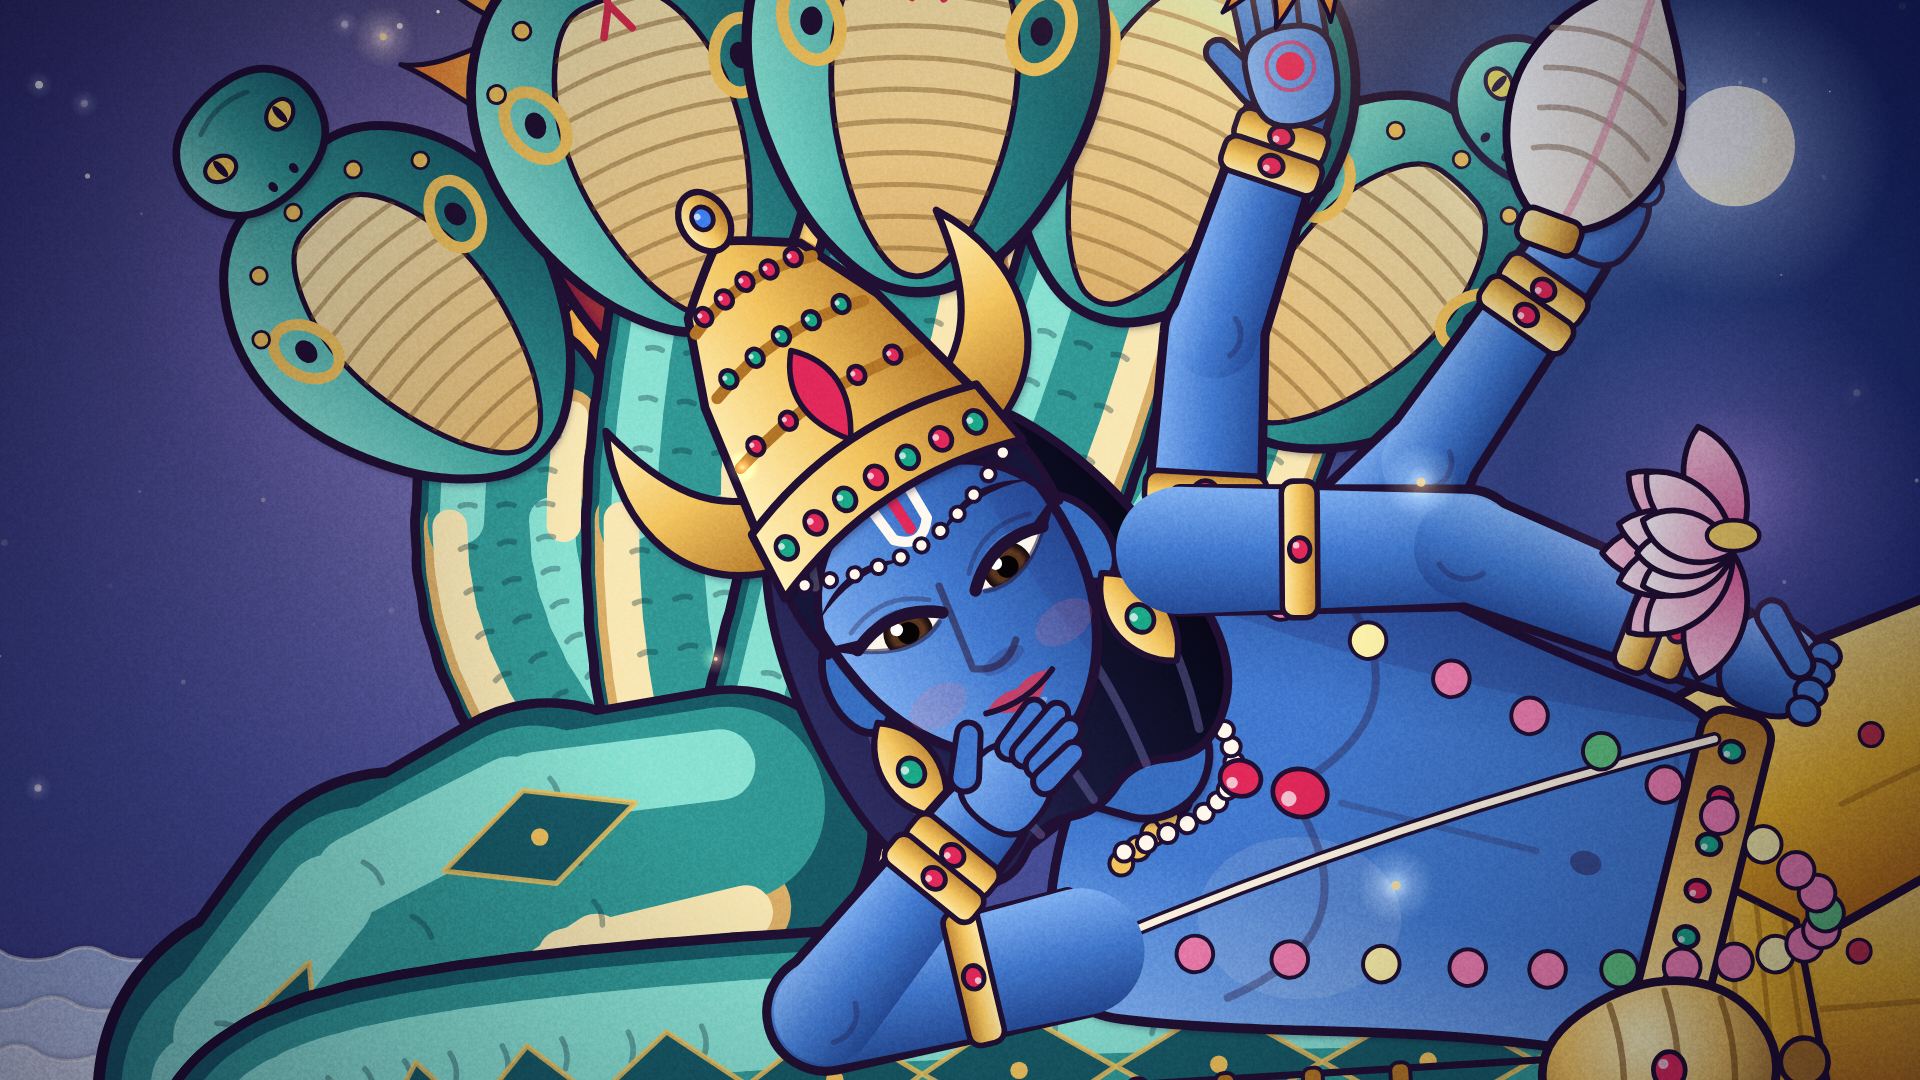
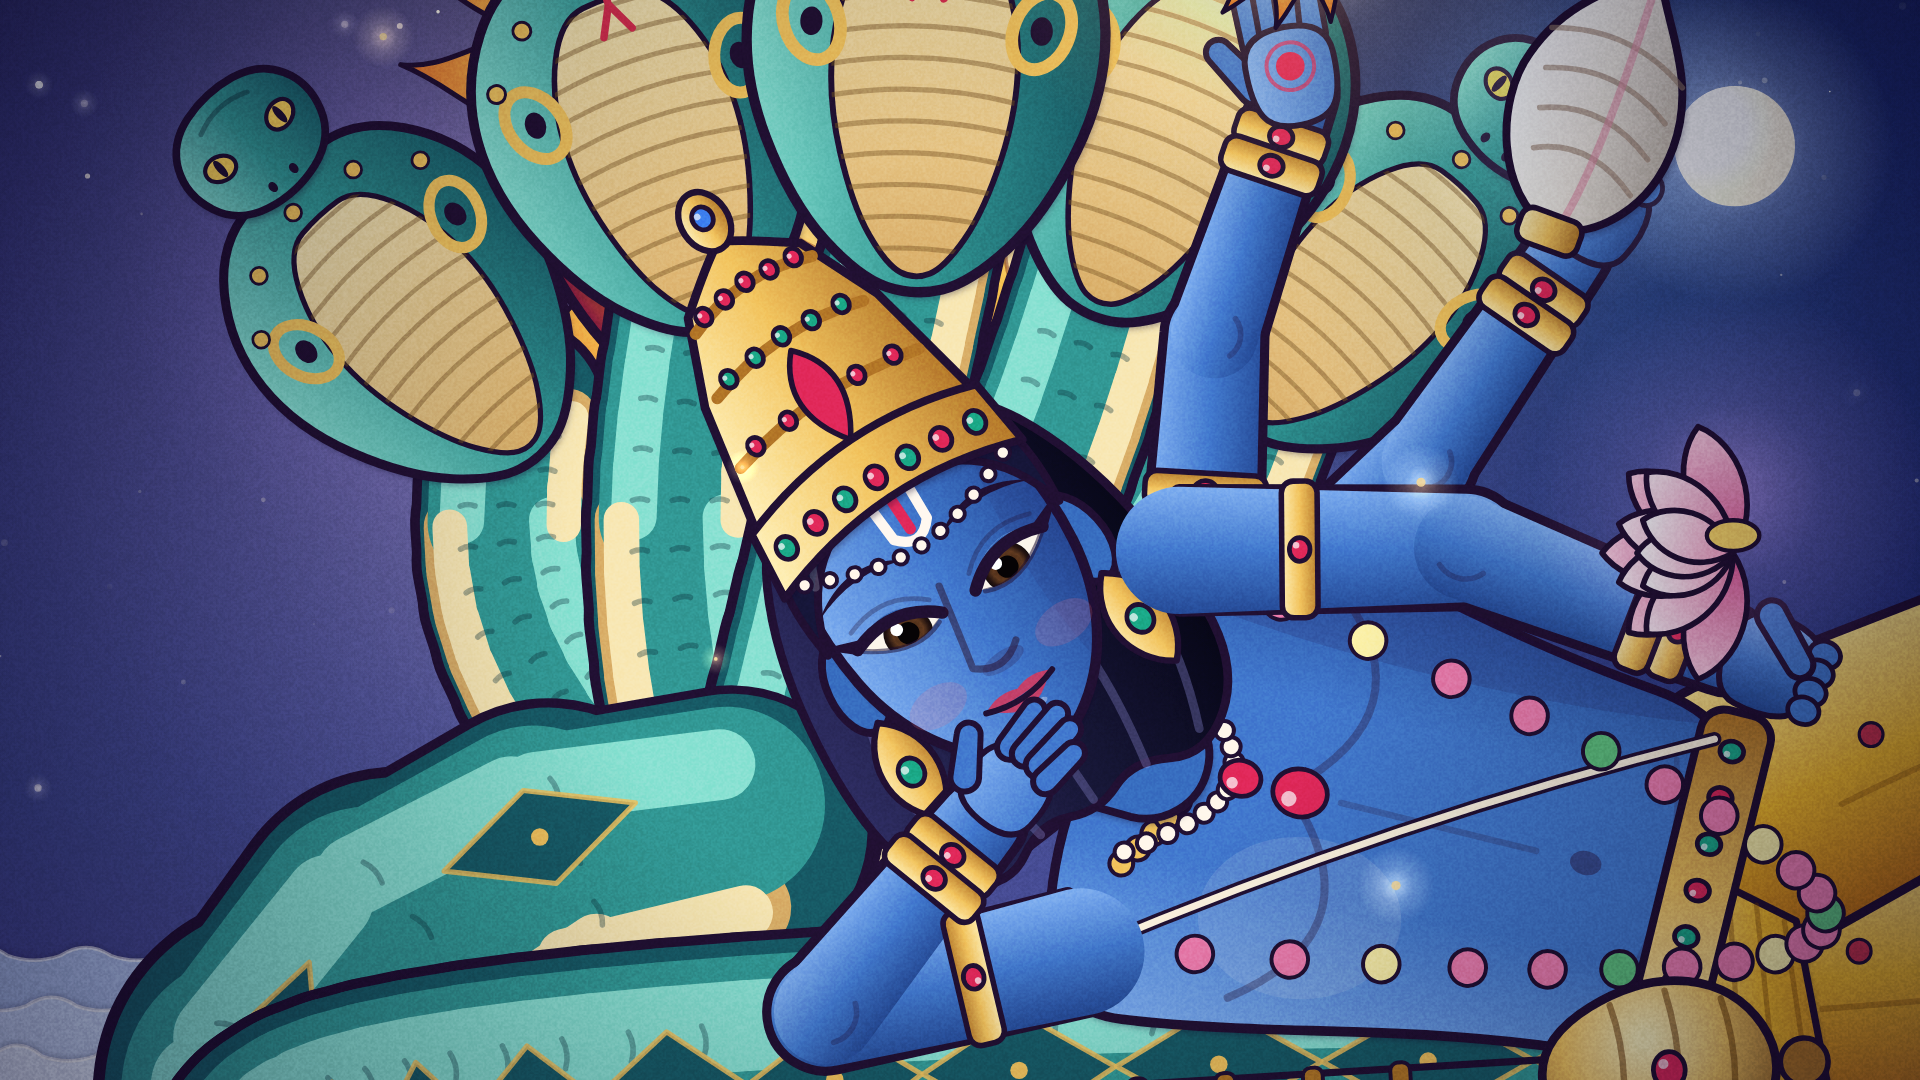
Remove the side horns from Vishnu's kirita (engine kit + showcase), re-render Vishnu/trio frames
Claude-Session: https://claude.ai/code/session_01Ec4SCjc7mpKu4xcSrfyjyA

Changed region(s): [[0.4688, 0.1833, 0.5625, 0.3972], [0.3125, 0.3972, 0.4062, 0.55]]

diff --git a/engine/paper_kit.js b/engine/paper_kit.js
@@ -97,7 +97,7 @@ function hairBack(c,col,t,len){const sw=Math.sin(t*1.2)*3;
   for(let i=-2;i<=2;i++)stroke(c,cc=>{cc.moveTo(i*14,0);cc.bezierCurveTo(i*22,len*.3,i*20+sw,len*.6,i*16+sw,len*.9)},'rgba(160,150,230,.28)',2.2)}
 
 function kirita(c,h){h=h||100;
-  [-1,1].forEach(sd=>cut(c,cc=>{cc.moveTo(sd*30,-30);cc.bezierCurveTo(sd*56,-36,sd*62,-62,sd*50,-84);cc.bezierCurveTo(sd*46,-62,sd*38,-52,sd*26,-48);cc.closePath()},lg(c,0,-84,0,-30,[PAL.goldL,PAL.gold,PAL.goldD]),{lw:1.8}));
+  // (no side horns: Vishnu's kirita is a plain tiered crown)
   const top=-42-h;cut(c,cc=>{cc.moveTo(-33,-40);cc.lineTo(-26,-42-h*.5);cc.lineTo(-17,-42-h*.82);cc.quadraticCurveTo(-6,-42-h*.95,0,top);cc.quadraticCurveTo(6,-42-h*.95,17,-42-h*.82);cc.lineTo(26,-42-h*.5);cc.lineTo(33,-40);cc.closePath()},goldG(c,-32,32),{lw:2.2});
   [.28,.55,.8].forEach((f,i)=>{const y=-42-h*f,w=lerp(32,14,f);stroke(c,cc=>{cc.moveTo(-w,y+3);cc.quadraticCurveTo(0,y-4,w,y+3)},PAL.goldD,3);for(let k=-2;k<=2;k++)if(Math.abs(k)*7<w)gem(c,k*w/2.6,y-1+Math.abs(k)*.8,2,i%2?PAL.emer:PAL.ruby)});
   cut(c,cc=>{cc.moveTo(0,-42-h*.5);cc.quadraticCurveTo(11,-42-h*.32,0,-48);cc.quadraticCurveTo(-11,-42-h*.32,0,-42-h*.5)},PAL.ruby,{lw:1.4,sh:0});

diff --git a/library/showcase/ep6_paper/kit.js b/library/showcase/ep6_paper/kit.js
@@ -96,7 +96,7 @@ function hairBack(c,col,t,len){const sw=Math.sin(t*1.2)*3;
   for(let i=-2;i<=2;i++)stroke(c,cc=>{cc.moveTo(i*14,0);cc.bezierCurveTo(i*22,len*.3,i*20+sw,len*.6,i*16+sw,len*.9)},'rgba(160,150,230,.28)',2.2)}
 
 function kirita(c,h){h=h||100;
-  [-1,1].forEach(sd=>cut(c,cc=>{cc.moveTo(sd*30,-30);cc.bezierCurveTo(sd*56,-36,sd*62,-62,sd*50,-84);cc.bezierCurveTo(sd*46,-62,sd*38,-52,sd*26,-48);cc.closePath()},lg(c,0,-84,0,-30,[PAL.goldL,PAL.gold,PAL.goldD]),{lw:1.8}));
+  // (no side horns: Vishnu's kirita is a plain tiered crown)
   const top=-42-h;cut(c,cc=>{cc.moveTo(-33,-40);cc.lineTo(-26,-42-h*.5);cc.lineTo(-17,-42-h*.82);cc.quadraticCurveTo(-6,-42-h*.95,0,top);cc.quadraticCurveTo(6,-42-h*.95,17,-42-h*.82);cc.lineTo(26,-42-h*.5);cc.lineTo(33,-40);cc.closePath()},goldG(c,-32,32),{lw:2.2});
   [.28,.55,.8].forEach((f,i)=>{const y=-42-h*f,w=lerp(32,14,f);stroke(c,cc=>{cc.moveTo(-w,y+3);cc.quadraticCurveTo(0,y-4,w,y+3)},PAL.goldD,3);for(let k=-2;k<=2;k++)if(Math.abs(k)*7<w)gem(c,k*w/2.6,y-1+Math.abs(k)*.8,2,i%2?PAL.emer:PAL.ruby)});
   cut(c,cc=>{cc.moveTo(0,-42-h*.5);cc.quadraticCurveTo(11,-42-h*.32,0,-48);cc.quadraticCurveTo(-11,-42-h*.32,0,-42-h*.5)},PAL.ruby,{lw:1.4,sh:0});

diff --git a/library/showcase/trimurti/chars_new.js b/library/showcase/trimurti/chars_new.js
@@ -92,7 +92,7 @@ function hairBack(c,col,t,len){const sw=Math.sin(t*1.2)*3;
   for(let i=-2;i<=2;i++)stroke(c,cc=>{cc.moveTo(i*14,0);cc.bezierCurveTo(i*22,len*.3,i*20+sw,len*.6,i*16+sw,len*.9)},'rgba(160,150,230,.28)',2.2)}
 
 function kirita(c,h){h=h||100;
-  [-1,1].forEach(sd=>cut(c,cc=>{cc.moveTo(sd*30,-30);cc.bezierCurveTo(sd*56,-36,sd*62,-62,sd*50,-84);cc.bezierCurveTo(sd*46,-62,sd*38,-52,sd*26,-48);cc.closePath()},lg(c,0,-84,0,-30,[PAL.goldL,PAL.gold,PAL.goldD]),{lw:1.8}));
+  // (no side horns: Vishnu's kirita is a plain tiered crown)
   const top=-42-h;cut(c,cc=>{cc.moveTo(-33,-40);cc.lineTo(-26,-42-h*.5);cc.lineTo(-17,-42-h*.82);cc.quadraticCurveTo(-6,-42-h*.95,0,top);cc.quadraticCurveTo(6,-42-h*.95,17,-42-h*.82);cc.lineTo(26,-42-h*.5);cc.lineTo(33,-40);cc.closePath()},goldG(c,-32,32),{lw:2.2});
   [.28,.55,.8].forEach((f,i)=>{const y=-42-h*f,w=lerp(32,14,f);stroke(c,cc=>{cc.moveTo(-w,y+3);cc.quadraticCurveTo(0,y-4,w,y+3)},PAL.goldD,3);for(let k=-2;k<=2;k++)if(Math.abs(k)*7<w)gem(c,k*w/2.6,y-1+Math.abs(k)*.8,2,i%2?PAL.emer:PAL.ruby)});
   cut(c,cc=>{cc.moveTo(0,-42-h*.5);cc.quadraticCurveTo(11,-42-h*.32,0,-48);cc.quadraticCurveTo(-11,-42-h*.32,0,-42-h*.5)},PAL.ruby,{lw:1.4,sh:0});
